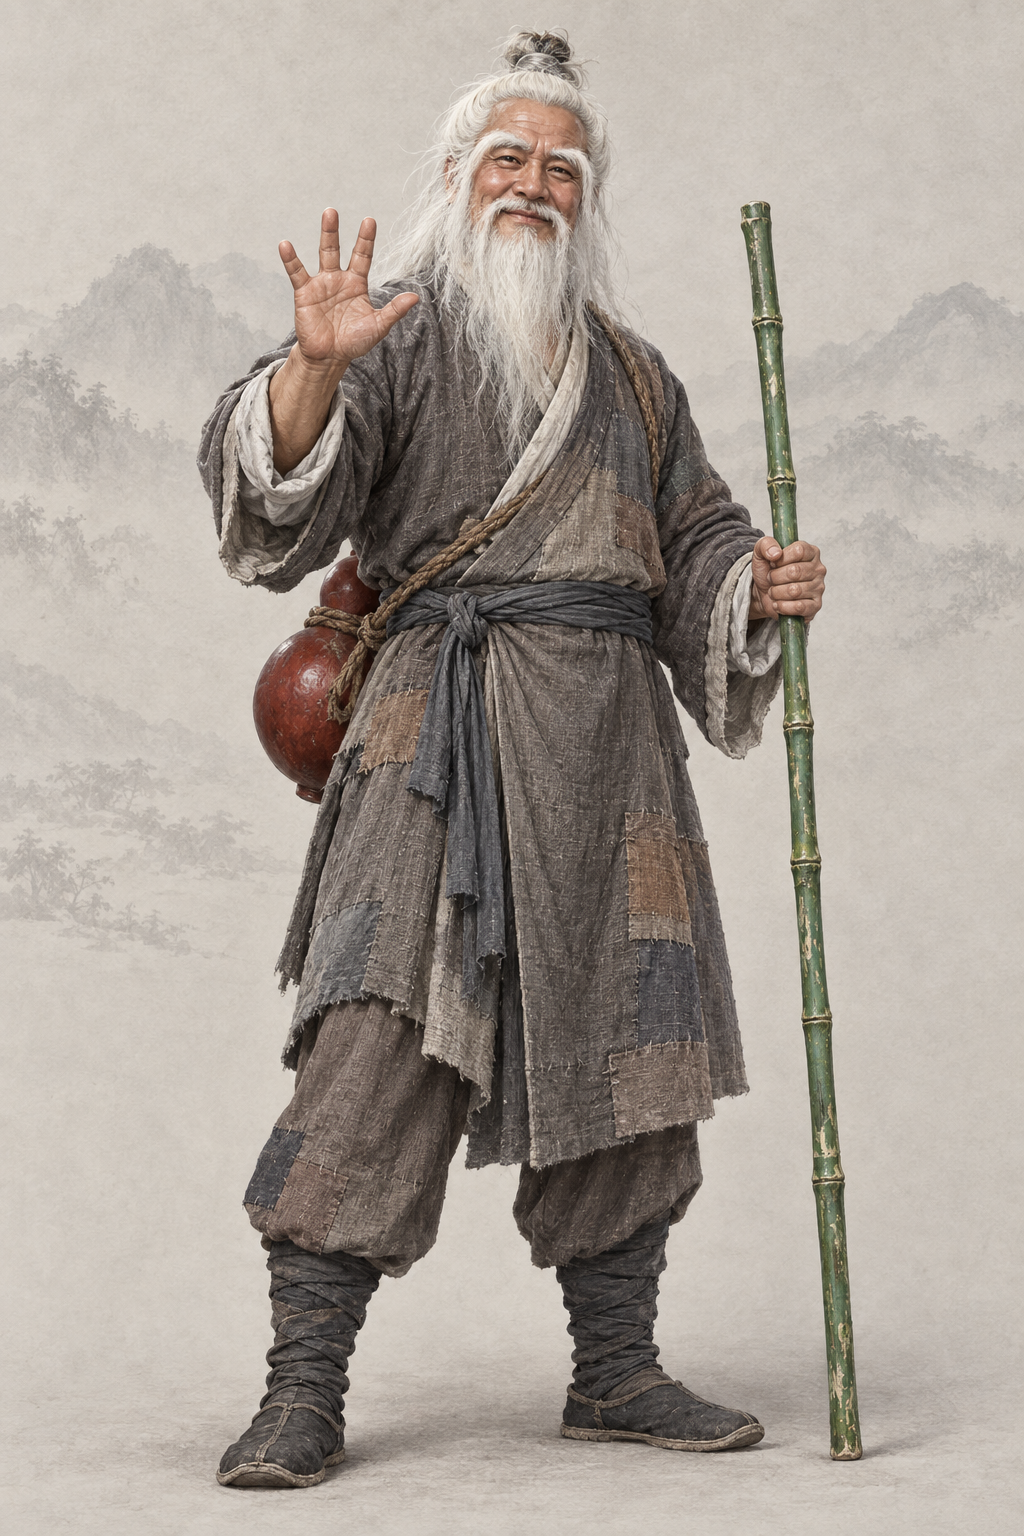
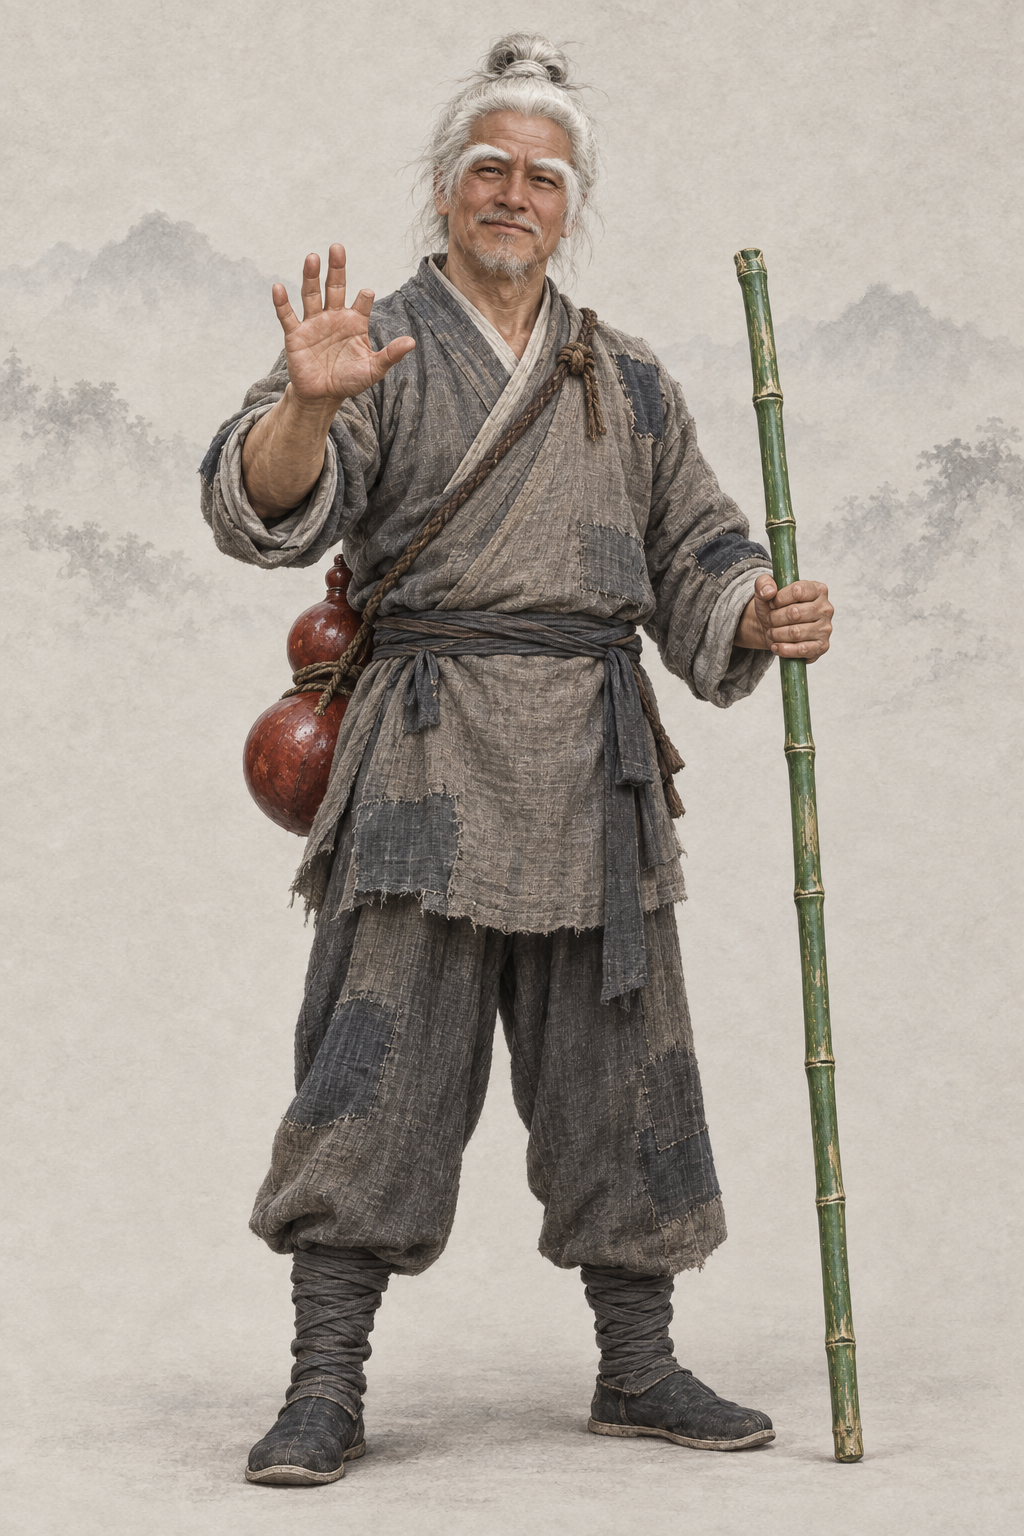
assets(character): por_npc_hongqigong__ch02_elder_bangzhu_base 洪七公（codex · AR-32 补记修改 A：1983 TVB《射雕英雄传》 剧照 + 基线）
作者 10-02：改微须（原著「长方脸、颏下微须」，上一版按 1983 版画成白色长髯）；九指、绿竹杖、朱红葫芦、补丁衣不变。上传顺序：第 1–2 张为 1983 TVB《射雕英雄传》洪七公剧照（hongqigong_1983_liudan_sina2001.jpg、hongqigong_1983_liudan_baike.jpg，沿用上一版的两张），最后两张为同性别基线；r1；提示词写回，旧段留作历史。

diff --git a/assets/default/prompts/characters/ch02-shediao/npc_hongqigong.md b/assets/default/prompts/characters/ch02-shediao/npc_hongqigong.md
@@ -15,13 +15,13 @@ references:
   use: 同人1983刘丹面部连续性参考，保持编辑底图已完成面容，不复制参考手部。
 status: redo
 realism_revision: user_nine_finger_hand_repair_20261001
-redo_reason: "现图是剧集式白发长髯老寿星，与原著“长方脸、颏下微须、粗手大脚、补丁衣洗得干净、绿竹杖、朱红葫芦、九指”不符且有肖像风险"
+codex_prompt_rev: 2026-10-02
+redo_reason: 作者 10-02：改微须——原著「长方脸、颏下微须」，上一版按 1983 版画成白色长髯；改为颏下几绺短而稀疏的微须，九指（右手食指缺一截、旧伤已愈）、绿竹杖、朱红葫芦、补丁衣洗得干净不变
 reference_upload:
 - .agents/coord/imagegen-reference/identity-20261001/shediao/hongqigong_1983_liudan_sina2001.jpg
 - .agents/coord/imagegen-reference/identity-20261001/shediao/hongqigong_1983_liudan_baike.jpg
 - assets/default/baseline/character/male/ref_npc_linghuchong__ch05_base01.png
 - assets/default/baseline/character/male/ref_npc_xiaofeng__ch01_base01.png
-codex_prompt_rev: 2026-10-02
 classic_ref:
   version: 1983 TVB《射雕英雄传》
   stills:
@@ -32,6 +32,27 @@ classic_ref:
 # 洪七公 · 人物写实修正
 
 ## Gemini 提示词
+
+> 2026-10-02 AR-32 补记修改 A（9 号出图员，codex exec · image_gen）：作者 10-02：改微须（原著「长方脸、颏下微须」，上一版按 1983 版画成白色长髯）；九指、绿竹杖、朱红葫芦、补丁衣不变。上传顺序：第 1–2 张为 1983 TVB《射雕英雄传》洪七公剧照（hongqigong_1983_liudan_sina2001.jpg、hongqigong_1983_liudan_baike.jpg，沿用上一版的两张），最后两张为同性别画风基线（缩小版 JPEG）。参考图只借造型、气质与面部特征，画面按项目画风重绘、不复制照片。上一版保留在下一节作历史。
+
+```text
+生成一张 2:3 竖幅全身人物立绘：单人、单一视角、完整全身——头顶、双手、双脚和手中器物的两端都在画面内，四周留出自然空白；人物站姿自然，身体基本朝向正面，头部端正（不歪头、不仰不俯），镜头平视。
+【参考图】第 1–2 张参考图是该角色经典影视造型的剧照：借鉴其发型、服饰、配色、标志道具、气质和面部特征，让人一眼认出是这个角色；但必须重新绘制成项目画风，不要照片质感，不要照搬剧照的构图、光影、背景和姿势，也不要做成照片修图。最后两张是本项目画风基线：画风、用色、光线、质感和暖浅灰纸底加淡水墨背景以它们为准。
+【剧照借鉴要点】从剧照取老叫化的神采与气度：花白头发在头顶随手挽髻、花白浓眉、细长的笑眼、长方脸的脸型；剧照里垂到胸前的白色长髯一律不要——本作按原著画成颏下微须；衣服按下文的灰褐补丁衣来画，不照搬剧照戏服。
+【画风】写实手绘古风人物插画，与本项目写实武侠角色立绘同一画风，像功力深厚的画师用细腻笔触画出的真实人物。手绘插画质感，不是 CG 渲染：不要过度光滑的皮肤、完美对称的五官、塑料高光、过度锐利的发丝；保留自然的笔触和细微不完美。皮肤有真实质感——细小毛孔、细纹、晒痕和自然的左右不对称，不磨皮、不油亮；头发是一缕缕自然的发丝和少量碎发；布料看得出经纬纹理、厚薄和自然垂坠的褶皱，带穿用过的轻微旧化，但完整不破烂；整体设色低饱和、沉稳；柔和的自然光从左上方照来，明暗过渡自然，不打舞台光、轮廓光或美颜柔光。不是照片，不是三维渲染，不是动漫或游戏 CG，也不是油画（没有厚涂笔触和画布纹理）。
+【背景】不透明的暖浅灰色纸底，只在远处有极淡的水墨远山和薄雾，大面积留白；人物与背景明暗分明、轮廓边缘干净完整（后续要自动抠图），水墨和纸纹只在背景里，不侵入人物和衣服；脚下只有很淡的一点接触阴影。
+【人物】洪七公，《射雕英雄传》北丐、丐帮帮主，天下五绝之一，郭靖的师父；豪爽诙谐、嘴馋好吃，人称九指神丐。
+【年龄与体态】五十五岁上下、神完气足的老叫化：身材高大、骨架粗壮、肩宽背厚，原著说他粗手大脚——手掌宽厚、指节粗大，双脚也大；腰板挺直、精力充沛，没有老态。
+【经典造型】以经典港剧里那位九指神丐的神采为蓝本：花白头发在头顶随手挽个髻，花白浓眉下一双笑眯眯的细长眼睛，手持碧绿竹杖，背一只朱红大酒葫芦，一身打满补丁却洗得干干净净的旧布衣；豪爽诙谐、嘴馋好酒，自有一派宗师气度。
+【面容】原著写他「长方脸、颏下微须」：长方脸、额头宽、颧骨高；花白浓眉、眉尾上扬；眼睛细长带笑，透着精明和馋相；鼻头大而红润（好酒）；嘴大。胡须是本张的重点：唇上只有极短的花白短髭；下巴颏下留着几绺短而稀疏的花白微须，长不过一寸多，贴着下巴，不垂到喉咙，更不到胸口；两腮和下颌其余地方没有胡子。脸色红润，皮肤粗糙，有风霜、皱纹和晒斑。
+【服饰】灰褐色旧布交领短衣（右衽，左襟压右襟）和宽裤，衣裤上缝着深浅不一的方形补丁，补丁针脚细密、洗得干干净净，不脏不破；腰系旧布带，打着绑腿，穿旧布鞋。
+【道具】左手握一根碧绿如玉的竹杖（丐帮打狗棒，竹节清楚，比他的肩略高），五指完整；背上斜背一只朱红漆的大酒葫芦，系绳清楚。右手抬到胸前、掌心朝外——九指：这只右手的食指缺了一截，只剩靠近掌根的短短一节，断处早已愈合成圆钝光滑的指头（无血、无伤口、无包扎）；拇指、中指、无名指、小指完整，缺了一截的食指要一眼看得出。
+【姿态与神情】站姿随意洒脱，身体基本正面，右手抬在胸前像要比划什么（露出缺了一截食指的手），笑眯眯、乐呵呵的豪爽样子。
+【不要】画面里不要任何文字、题款、印章、签名、水印、边框、分格或多视图；不要第二个人；不要幼态（童颜、娃娃脸、婴儿肥、儿童或少年身材、大头小身）；不要塑料感皮肤、磨皮美颜、网红脸（尖下巴大眼高鼻的模板脸）、过度对称、浓妆、偶像式打光、蜡像感；不要照片质感，不要像剧照照片、照片修图或拼贴，不要照搬剧照的背景、光影、构图和姿势；不要三维渲染或动漫大眼；不要歪头、斜镜头；不要多指、缺指（设定的伤残除外）、手与器物粘连或悬空；衣襟必须右衽（穿着者的左襟压在右襟上），不要左衽（设定为少数民族服制的除外），不要水平镜像；不要现代物品、发光特效、法阵或能量光。不要长髯、不要垂到喉咙或胸前的白色长须、不要络腮胡和山羊长须；不要仙风道骨的老寿星神态；不要夸张的大红脸；不要脏污破烂；不要十指俱全，也不要血淋淋的断指；不要龙形掌风。
+【画风基线】随提示词上传的参考图里，最后两张是本项目的立绘画风基线：只参考它们的画风、用色、光线、质感和暖浅灰纸底加淡水墨的背景处理，整体画风必须与它们一致——精细写实的数字手绘插画，不是油画，不要厚涂笔触和画布纹理。基线图只取画风，不取长相：不要照搬基线图里人物的长相、年龄、发型、服饰和姿势。
+```
+
+## AR-32 补记修改前的 Gemini 提示词（5 号出图员版；2026-10-02 上午，历史，不再用于出图）
 
 > 2026-10-02 AR-32 重出（5 号出图员，codex exec · image_gen）：主要角色改为参考经典影视版剧照加项目基线生成。上传顺序：1983 TVB《射雕英雄传》 剧照 2 张（hongqigong_1983_liudan_sina2001.jpg、hongqigong_1983_liudan_baike.jpg），最后两张为同性别画风基线（缩小版 JPEG）。剧照只借造型、气质与面部特征，画面按项目画风重绘、不复制照片。上一版（AR-31 文字版）保留在下一节作历史。
 
